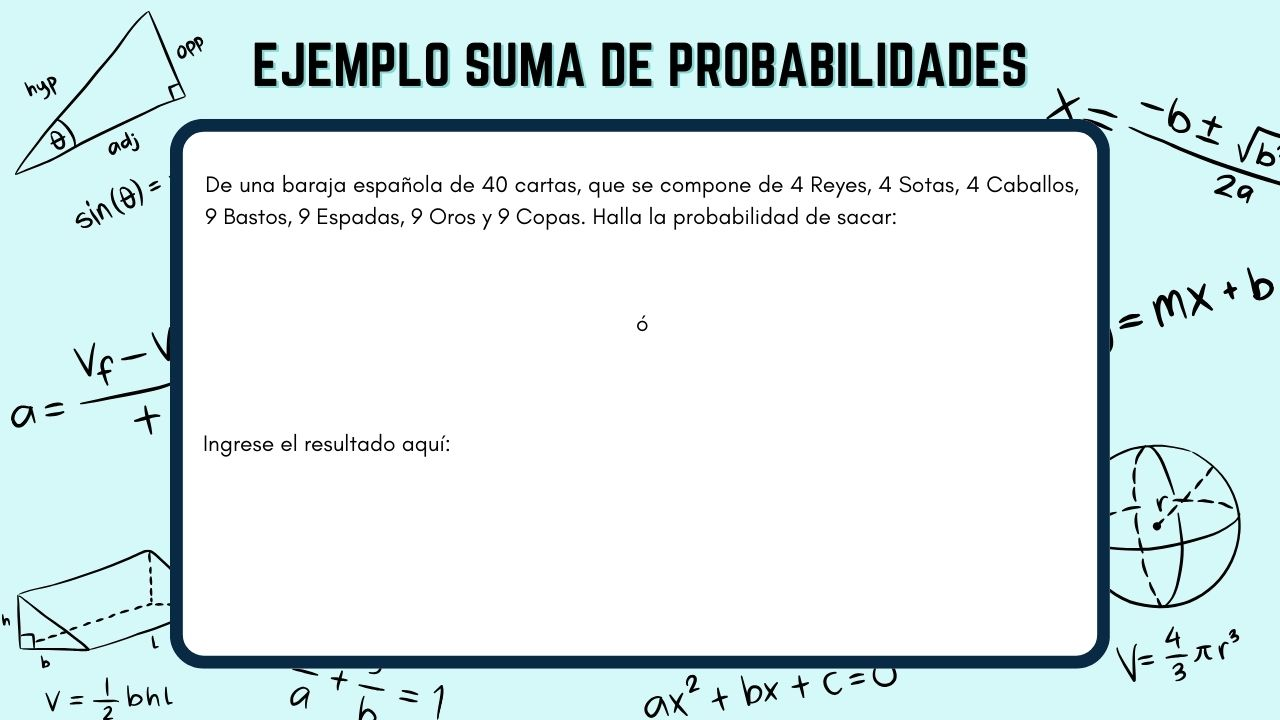
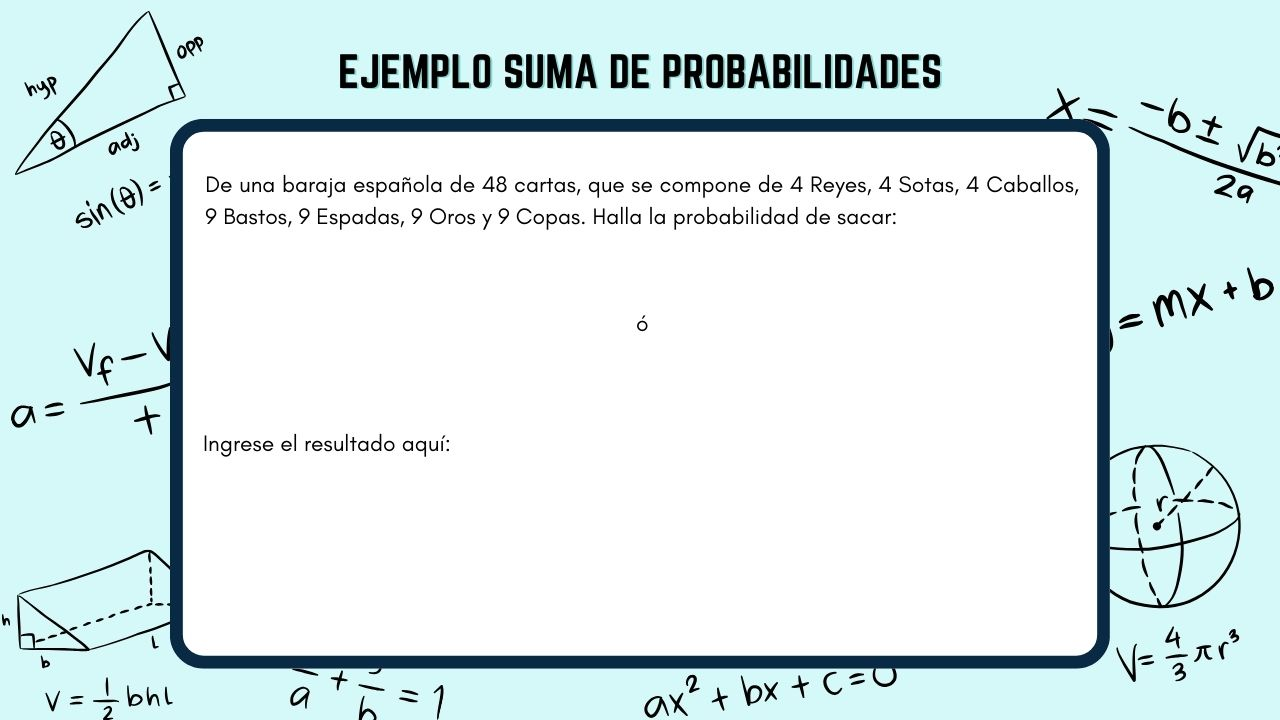
Se añaden los ejemplos de suma, multiplicacion y laplace.

diff --git a/src/Proyecto/Probabilidades.java b/src/Proyecto/Probabilidades.java
@@ -81,7 +81,7 @@ public class Probabilidades extends javax.swing.JFrame {
         label3.setText("");  // Limpiar la respuesta correcta
     }
     
-    private void verificarRespuesta(JLabel label) {
+    private void verificarRespuesta(JLabel label, double tolerancia) {
         
         try {
             // Obtiene la respuesta del usuario
@@ -91,7 +91,7 @@ public class Probabilidades extends javax.swing.JFrame {
             double resultadoCorrecto = calcularsumaprobabilidad();
 
             // Comprueba si la respuesta del usuario es correcta o incorrecta
-            if (respuestaUsuario == resultadoCorrecto) {
+            if (Math.abs(respuestaUsuario - resultadoCorrecto) <= tolerancia) {
                 label.setText("Respuesta Correcta");
             } else {
                 label.setText("Respuesta Incorrecta");
@@ -102,7 +102,7 @@ public class Probabilidades extends javax.swing.JFrame {
         }
     }
     
-    private void verificarRespuesta1(JLabel label) {
+    private void verificarRespuesta1(JLabel label, double tolerancia) {
         
         try {
             // Obtiene la respuesta del usuario
@@ -112,7 +112,28 @@ public class Probabilidades extends javax.swing.JFrame {
             double resultadoCorrecto = calcularmultiplicacionprobabilidad();
 
             // Comprueba si la respuesta del usuario es correcta o incorrecta
-            if (respuestaUsuario == resultadoCorrecto) {
+            if (Math.abs(respuestaUsuario - resultadoCorrecto) <= tolerancia) {
+                label.setText("Respuesta Correcta");
+            } else {
+                label.setText("Respuesta Incorrecta");
+            }
+
+        } catch (NumberFormatException ex) {
+            label.setText("Entrada inválida. Por favor, ingresa solo números.");
+        }
+    }
+    
+    private void verificarRespuesta2(JLabel label, double tolerancia) {
+        
+        try {
+            // Obtiene la respuesta del usuario
+            double respuestaUsuario = Double.parseDouble(campoResultado2.getText());
+
+            // Calcula el resultado correcto
+            double resultadoCorrecto = calcularlaplaceprobabilidad();
+
+            // Comprueba si la respuesta del usuario es correcta o incorrecta
+            if (Math.abs(respuestaUsuario - resultadoCorrecto) <= tolerancia) {
                 label.setText("Respuesta Correcta");
             } else {
                 label.setText("Respuesta Incorrecta");
@@ -135,21 +156,27 @@ public class Probabilidades extends javax.swing.JFrame {
         LabelRespuestaCorrecta1.setText("Respuesta Correcta: " + resultadoCorrecto);
     }
     
+    private void mostrarRespuestaCorrecta2() {
+        // Muestra la respuesta correcta
+        double resultadoCorrecto = calcularlaplaceprobabilidad(); 
+        LabelRespuestaCorrecta2.setText("Respuesta Correcta: " + resultadoCorrecto);
+    }
+        
     private double calcularmultiplicacionprobabilidad() {
-        int cartasTotales = 40;  // Un mazo español tiene 40 cartas
+        int cartasTotales = 48;  // Un mazo español tiene 40 cartas
 
         // Probabilidad de sacar cada carta
         double probabilidadCarta1 = 1.0 / cartasTotales;
         double probabilidadCarta2 = 1.0 / cartasTotales;
 
-        // Suma de las probabilidades de sacar carta1 o carta2
+        // Multiplica de las probabilidades de sacar carta1 o carta2
         double resultadoCorrecto = probabilidadCarta1 * probabilidadCarta2;
 
         return resultadoCorrecto;
     }
     
     private double calcularsumaprobabilidad() {
-        int cartasTotales = 40;  // Un mazo español tiene 40 cartas
+        int cartasTotales = 48;  // Un mazo español tiene 40 cartas
 
         // Probabilidad de sacar cada carta
         double probabilidadCarta1 = 1.0 / cartasTotales;
@@ -160,11 +187,20 @@ public class Probabilidades extends javax.swing.JFrame {
 
         return resultadoCorrecto;
     }
+    
+    private double calcularlaplaceprobabilidad() {
+        int cartasTotales = 48;  // Un mazo español tiene 40 cartas
+
+        // Probabilidad de sacar cada carta
+        double resultadoCorrecto = 1.0 / cartasTotales;
+
+        return resultadoCorrecto;
+    }
 
     private String obtenerCartaAleatoria(Random random) {
         // Establece las listas de las cartas
         String[] palos = {"Bastos", "Espadas", "Copas", "Oros"};
-        String[] figuras = {"Rey", "Sota", "Caballo", "1", "2", "3", "4", "5", "6", "7"};
+        String[] figuras = {"Rey", "Sota", "Caballo", "1", "2", "3", "4", "5", "6", "7", "8", "9"};
         
         // Mide el largo de la lista y toma los valores de esta
         String palo = palos[random.nextInt(palos.length)];
@@ -267,6 +303,12 @@ public class Probabilidades extends javax.swing.JFrame {
         LabelLaplace = new javax.swing.JLabel();
         ejemplolaplaceFrame = new javax.swing.JFrame();
         atrasBoton14 = new javax.swing.JButton();
+        respuestacorrectaBoton2 = new javax.swing.JButton();
+        nuevoejemploBoton2 = new javax.swing.JButton();
+        LabelCarta5 = new javax.swing.JLabel();
+        LabelRespuestaCorrecta2 = new javax.swing.JLabel();
+        LabelResultadoRespuesta2 = new javax.swing.JLabel();
+        campoResultado2 = new javax.swing.JTextField();
         LabelEjemploLaplace = new javax.swing.JLabel();
         conceptosFrame = new javax.swing.JFrame();
         atrasBoton15 = new javax.swing.JButton();
@@ -808,6 +850,41 @@ public class Probabilidades extends javax.swing.JFrame {
             }
         });
         ejemplolaplaceFrame.getContentPane().add(atrasBoton14, new org.netbeans.lib.awtextra.AbsoluteConstraints(20, 20, 120, 60));
+
+        respuestacorrectaBoton2.setIcon(new javax.swing.ImageIcon(getClass().getResource("/Proyecto/Elementos_Proyecto/MOSTRAR RESPUESTA CORRECTA.png"))); // NOI18N
+        respuestacorrectaBoton2.addActionListener(new java.awt.event.ActionListener() {
+            public void actionPerformed(java.awt.event.ActionEvent evt) {
+                respuestacorrectaBoton2ActionPerformed(evt);
+            }
+        });
+        ejemplolaplaceFrame.getContentPane().add(respuestacorrectaBoton2, new org.netbeans.lib.awtextra.AbsoluteConstraints(700, 420, 120, 60));
+
+        nuevoejemploBoton2.setIcon(new javax.swing.ImageIcon(getClass().getResource("/Proyecto/Elementos_Proyecto/NUEVO_EJEMPLO.png"))); // NOI18N
+        nuevoejemploBoton2.addActionListener(new java.awt.event.ActionListener() {
+            public void actionPerformed(java.awt.event.ActionEvent evt) {
+                nuevoejemploBoton2ActionPerformed(evt);
+            }
+        });
+        ejemplolaplaceFrame.getContentPane().add(nuevoejemploBoton2, new org.netbeans.lib.awtextra.AbsoluteConstraints(920, 570, 120, 60));
+
+        LabelCarta5.setFont(new java.awt.Font("Candara", 0, 18)); // NOI18N
+        LabelCarta5.setHorizontalAlignment(javax.swing.SwingConstants.CENTER);
+        ejemplolaplaceFrame.getContentPane().add(LabelCarta5, new org.netbeans.lib.awtextra.AbsoluteConstraints(540, 290, 200, 40));
+
+        LabelRespuestaCorrecta2.setFont(new java.awt.Font("Candara", 0, 14)); // NOI18N
+        ejemplolaplaceFrame.getContentPane().add(LabelRespuestaCorrecta2, new org.netbeans.lib.awtextra.AbsoluteConstraints(830, 430, 230, 30));
+
+        LabelResultadoRespuesta2.setFont(new java.awt.Font("Candara", 0, 14)); // NOI18N
+        ejemplolaplaceFrame.getContentPane().add(LabelResultadoRespuesta2, new org.netbeans.lib.awtextra.AbsoluteConstraints(210, 510, 590, 20));
+
+        campoResultado2.addActionListener(new java.awt.event.ActionListener() {
+            public void actionPerformed(java.awt.event.ActionEvent evt) {
+                campoResultado2ActionPerformed(evt);
+            }
+        });
+        ejemplolaplaceFrame.getContentPane().add(campoResultado2, new org.netbeans.lib.awtextra.AbsoluteConstraints(460, 430, 230, 30));
+
+        LabelEjemploLaplace.setIcon(new javax.swing.ImageIcon(getClass().getResource("/Proyecto/Elementos_Proyecto/EJEMPLO LAPLACE.jpg"))); // NOI18N
         ejemplolaplaceFrame.getContentPane().add(LabelEjemploLaplace, new org.netbeans.lib.awtextra.AbsoluteConstraints(0, 0, 1280, 720));
 
         conceptosFrame.setIconImage(getIconImage());
@@ -1148,7 +1225,7 @@ public class Probabilidades extends javax.swing.JFrame {
     private void ejemploBoton1ActionPerformed(java.awt.event.ActionEvent evt) {//GEN-FIRST:event_ejemploBoton1ActionPerformed
         // TODO add your handling code here:
         configFrame.especificacionesFrame(ejemplomultiplicacionFrame, multiplicacionFrame);
-        generarCartas(LabelCarta3, LabelCarta4, LabelResultadoRespuesta, LabelRespuestaCorrecta);
+        generarCartas(LabelCarta3, LabelCarta4, LabelResultadoRespuesta1, LabelRespuestaCorrecta1);
     }//GEN-LAST:event_ejemploBoton1ActionPerformed
 
     private void atrasBoton13ActionPerformed(java.awt.event.ActionEvent evt) {//GEN-FIRST:event_atrasBoton13ActionPerformed
@@ -1159,6 +1236,7 @@ public class Probabilidades extends javax.swing.JFrame {
     private void ejemploBoton2ActionPerformed(java.awt.event.ActionEvent evt) {//GEN-FIRST:event_ejemploBoton2ActionPerformed
         // TODO add your handling code here:
         configFrame.especificacionesFrame(ejemplolaplaceFrame, laplaceFrame);
+        generarCartas(LabelCarta5, null, LabelResultadoRespuesta2, LabelRespuestaCorrecta2);
     }//GEN-LAST:event_ejemploBoton2ActionPerformed
 
     private void atrasBoton14ActionPerformed(java.awt.event.ActionEvent evt) {//GEN-FIRST:event_atrasBoton14ActionPerformed
@@ -1219,7 +1297,7 @@ public class Probabilidades extends javax.swing.JFrame {
     private void campoResultadoActionPerformed(java.awt.event.ActionEvent evt) {//GEN-FIRST:event_campoResultadoActionPerformed
         // TODO add your handling code here:
         // Configurar el campo de texto para verificar el resultado al presionar "Enter"    
-        verificarRespuesta(LabelResultadoRespuesta);
+        verificarRespuesta(LabelResultadoRespuesta, 0.05);
     }//GEN-LAST:event_campoResultadoActionPerformed
 
     private void respuestacorrectaBotonActionPerformed(java.awt.event.ActionEvent evt) {//GEN-FIRST:event_respuestacorrectaBotonActionPerformed
@@ -1234,18 +1312,33 @@ public class Probabilidades extends javax.swing.JFrame {
 
     private void campoResultado1ActionPerformed(java.awt.event.ActionEvent evt) {//GEN-FIRST:event_campoResultado1ActionPerformed
         // TODO add your handling code here:
-        verificarRespuesta1(LabelResultadoRespuesta1);
+        verificarRespuesta1(LabelResultadoRespuesta1, 4.3403);
     }//GEN-LAST:event_campoResultado1ActionPerformed
 
     private void nuevoejemploBoton1ActionPerformed(java.awt.event.ActionEvent evt) {//GEN-FIRST:event_nuevoejemploBoton1ActionPerformed
         // TODO add your handling code here:
-         generarCartas(LabelCarta3, LabelCarta4, LabelResultadoRespuesta, LabelRespuestaCorrecta);
+        generarCartas(LabelCarta3, LabelCarta4, LabelResultadoRespuesta1, LabelRespuestaCorrecta1);
     }//GEN-LAST:event_nuevoejemploBoton1ActionPerformed
 
     private void respuestacorrectaBoton1ActionPerformed(java.awt.event.ActionEvent evt) {//GEN-FIRST:event_respuestacorrectaBoton1ActionPerformed
         // TODO add your handling code here:
         mostrarRespuestaCorrecta1();
     }//GEN-LAST:event_respuestacorrectaBoton1ActionPerformed
+
+    private void respuestacorrectaBoton2ActionPerformed(java.awt.event.ActionEvent evt) {//GEN-FIRST:event_respuestacorrectaBoton2ActionPerformed
+        // TODO add your handling code here:
+        mostrarRespuestaCorrecta2();
+    }//GEN-LAST:event_respuestacorrectaBoton2ActionPerformed
+
+    private void nuevoejemploBoton2ActionPerformed(java.awt.event.ActionEvent evt) {//GEN-FIRST:event_nuevoejemploBoton2ActionPerformed
+        // TODO add your handling code here:
+        generarCartas(LabelCarta5, null, LabelResultadoRespuesta2, LabelRespuestaCorrecta2);
+    }//GEN-LAST:event_nuevoejemploBoton2ActionPerformed
+
+    private void campoResultado2ActionPerformed(java.awt.event.ActionEvent evt) {//GEN-FIRST:event_campoResultado2ActionPerformed
+        // TODO add your handling code here:
+        verificarRespuesta2(LabelResultadoRespuesta2, 0.0208);
+    }//GEN-LAST:event_campoResultado2ActionPerformed
 
     /**
      * @param args the command line arguments
@@ -1281,6 +1374,7 @@ public class Probabilidades extends javax.swing.JFrame {
     public javax.swing.JLabel LabelCarta2;
     public javax.swing.JLabel LabelCarta3;
     public javax.swing.JLabel LabelCarta4;
+    public javax.swing.JLabel LabelCarta5;
     private javax.swing.JLabel LabelConceptos;
     private javax.swing.JLabel LabelConceptos1;
     private javax.swing.JLabel LabelCreditos;
@@ -1305,8 +1399,10 @@ public class Probabilidades extends javax.swing.JFrame {
     private javax.swing.JLabel LabelReglas;
     private javax.swing.JLabel LabelRespuestaCorrecta;
     private javax.swing.JLabel LabelRespuestaCorrecta1;
+    private javax.swing.JLabel LabelRespuestaCorrecta2;
     private static javax.swing.JLabel LabelResultadoRespuesta;
     private static javax.swing.JLabel LabelResultadoRespuesta1;
+    private static javax.swing.JLabel LabelResultadoRespuesta2;
     private javax.swing.JLabel LabelSuma;
     private javax.swing.JLabel LabelTeoria;
     private javax.swing.JButton anteriorBoton4;
@@ -1333,6 +1429,7 @@ public class Probabilidades extends javax.swing.JFrame {
     private javax.swing.JButton atrasBoton9;
     public static javax.swing.JTextField campoResultado;
     public static javax.swing.JTextField campoResultado1;
+    public static javax.swing.JTextField campoResultado2;
     private javax.swing.JButton conceptosBoton;
     private javax.swing.JFrame conceptosFrame;
     private javax.swing.JFrame conceptosFrame1;
@@ -1366,6 +1463,7 @@ public class Probabilidades extends javax.swing.JFrame {
     private javax.swing.JFrame multiplicacionFrame;
     private javax.swing.JButton nuevoejemploBoton;
     private javax.swing.JButton nuevoejemploBoton1;
+    private javax.swing.JButton nuevoejemploBoton2;
     private javax.swing.JButton pag1Boton;
     private javax.swing.JButton pag2Boton;
     private javax.swing.JButton pag2Boton1;
@@ -1378,6 +1476,7 @@ public class Probabilidades extends javax.swing.JFrame {
     private javax.swing.JFrame reglasFrame;
     private javax.swing.JButton respuestacorrectaBoton;
     private javax.swing.JButton respuestacorrectaBoton1;
+    private javax.swing.JButton respuestacorrectaBoton2;
     private javax.swing.JButton salirBoton;
     private javax.swing.JButton siguienteBoton3;
     private javax.swing.JButton sumaBoton;
